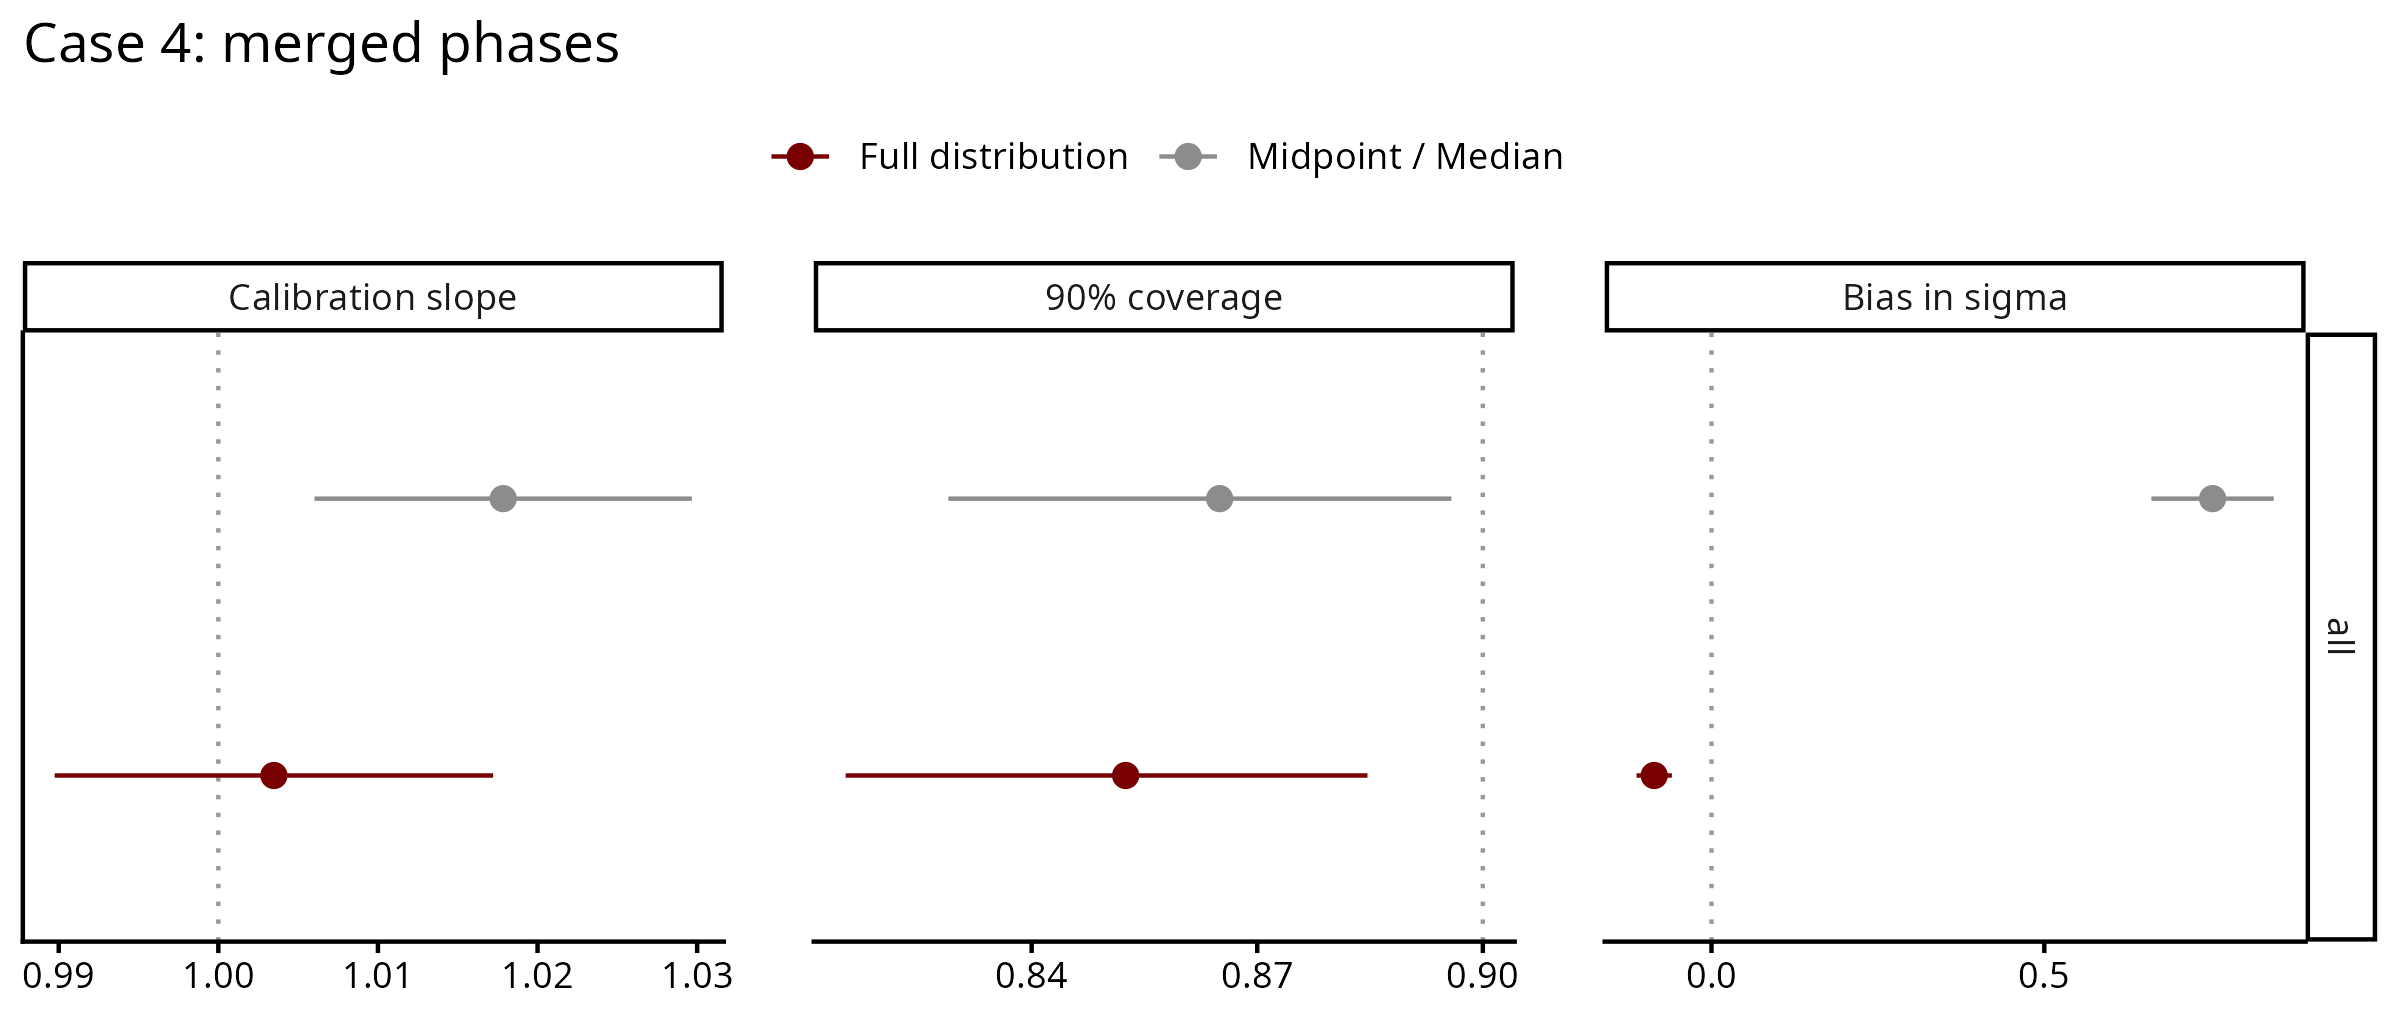
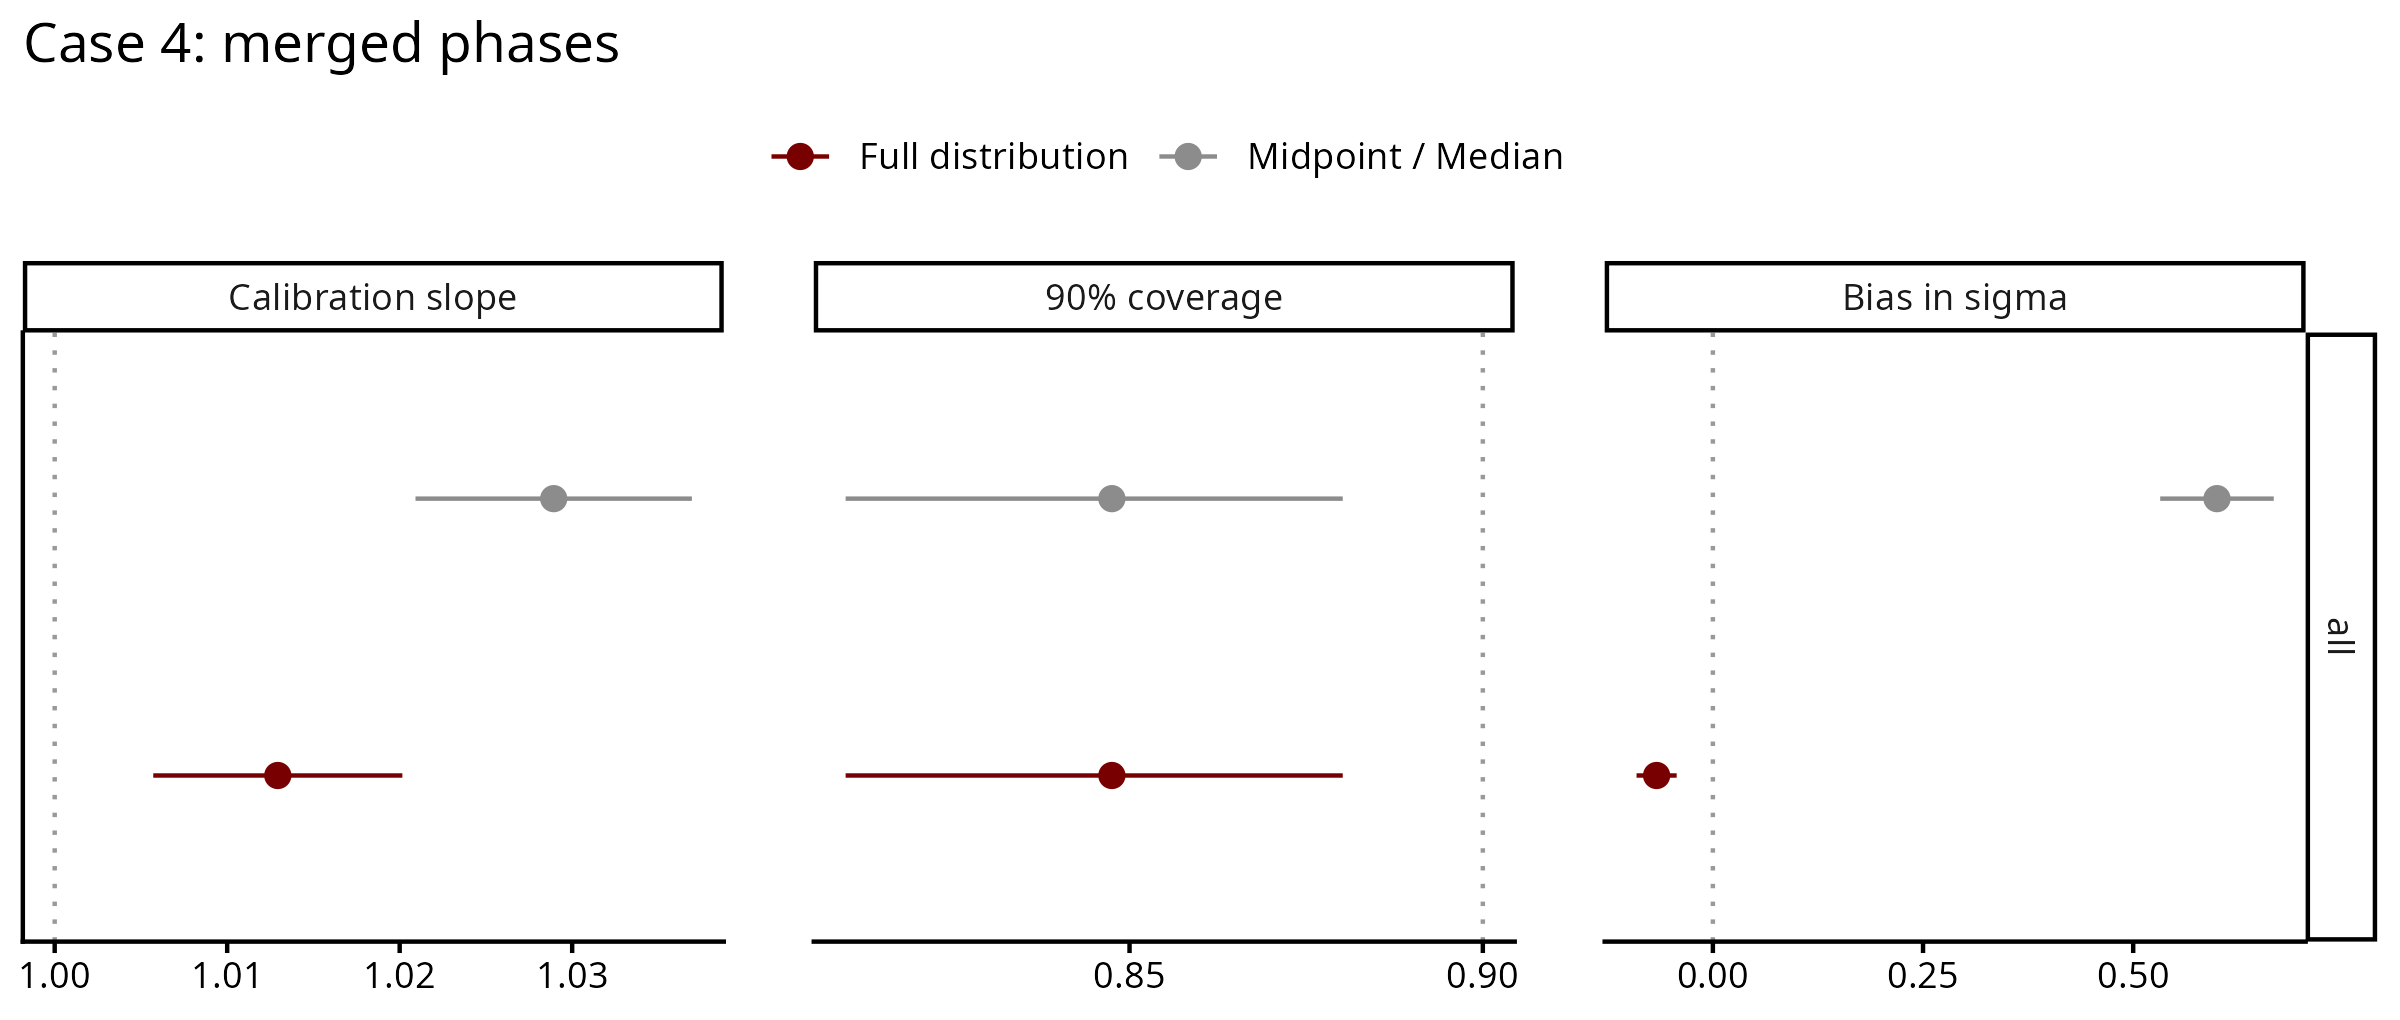
Time as response fit updates

diff --git a/Simulations/time_as_predictor/Case4_MergedPhases/README.md b/Simulations/time_as_predictor/Case4_MergedPhases/README.md
@@ -52,24 +52,26 @@ it equals the midpoint.
 
 ## Results
 
-Recovery study rerun on 2026-10-01 with the shared model.
+Recovery study rerun on 2026-10-06, with no phase longer than 60% of the period
+(see below).
 
-Both models recover the slope (slope ratio 1.00-1.04, coverage 0.85-0.93).
+Both models recover the slope (slope ratio 1.01-1.05, coverage 0.82-0.90).
 
 The midpoint model overestimates sigma, more so as broad periods get wider
-(σ bias 0.60, 0.72 and 1.09 at merge_max 2, 3 and 4). Its 90% interval
+(σ bias 0.44, 0.64 and 0.87 at merge_max 2, 3 and 4). Its 90% interval
 contains the true sigma in about a third of datasets. The full-distribution
-model recovers sigma (coverage 0.87-0.93).
+model recovers sigma (coverage 0.86-0.93).
 
-With no real trend, the 90% interval excludes zero in 9% (midpoint) and 10%
+With no real trend, the 90% interval excludes zero in 10% (midpoint) and 10%
 (full distribution) of datasets, against 10% expected.
 
-About 4% of datasets have one phase covering more than 90% of the period (very
-uneven phases, low `alpha_conc`). Every find is then dated to nearly the whole
-period, and the data cannot tell a rising trend from a falling one: the
-full-distribution posterior has two peaks, at +slope and -slope. Three of these
-datasets (153, 169, 1041) did not converge. Whether such phase schemes are
-realistic is still to decide.
+Phase lengths are capped at 60% of the period (`max_share` in
+`shared/dating/case4_merged_phases.R`; uneven draws are redrawn). Without the
+cap about 4% of datasets had one phase covering more than 90% of the period:
+every find was then dated to nearly the whole period, the data could not tell a
+rising trend from a falling one, and three datasets did not converge. Such phase
+schemes were judged unrealistic. All fits now converge (R-hat at most 1.01, no
+divergences). The uncapped run is in `output/archive/run_2026-10-01_uncapped/`.
 
 ![Recovery by merge level](figures/recovery_by_merge.png)
 
